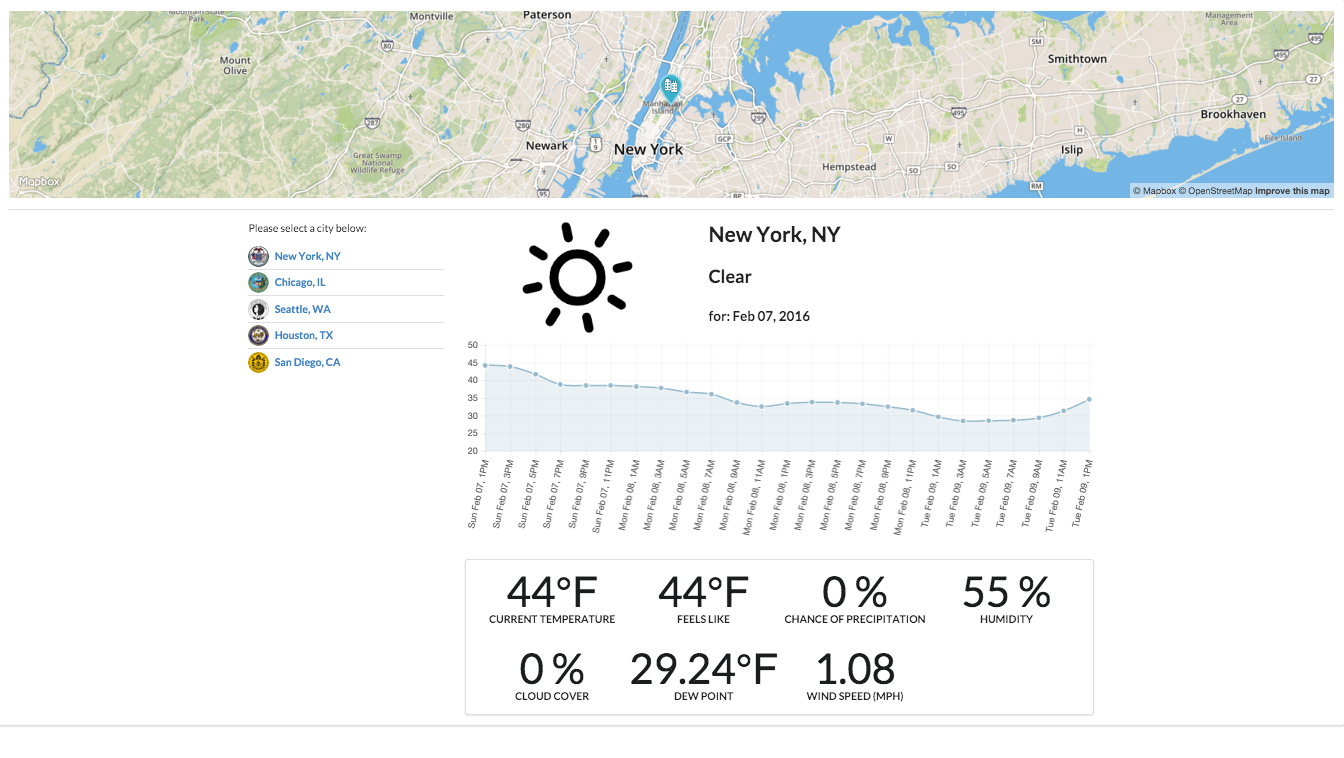
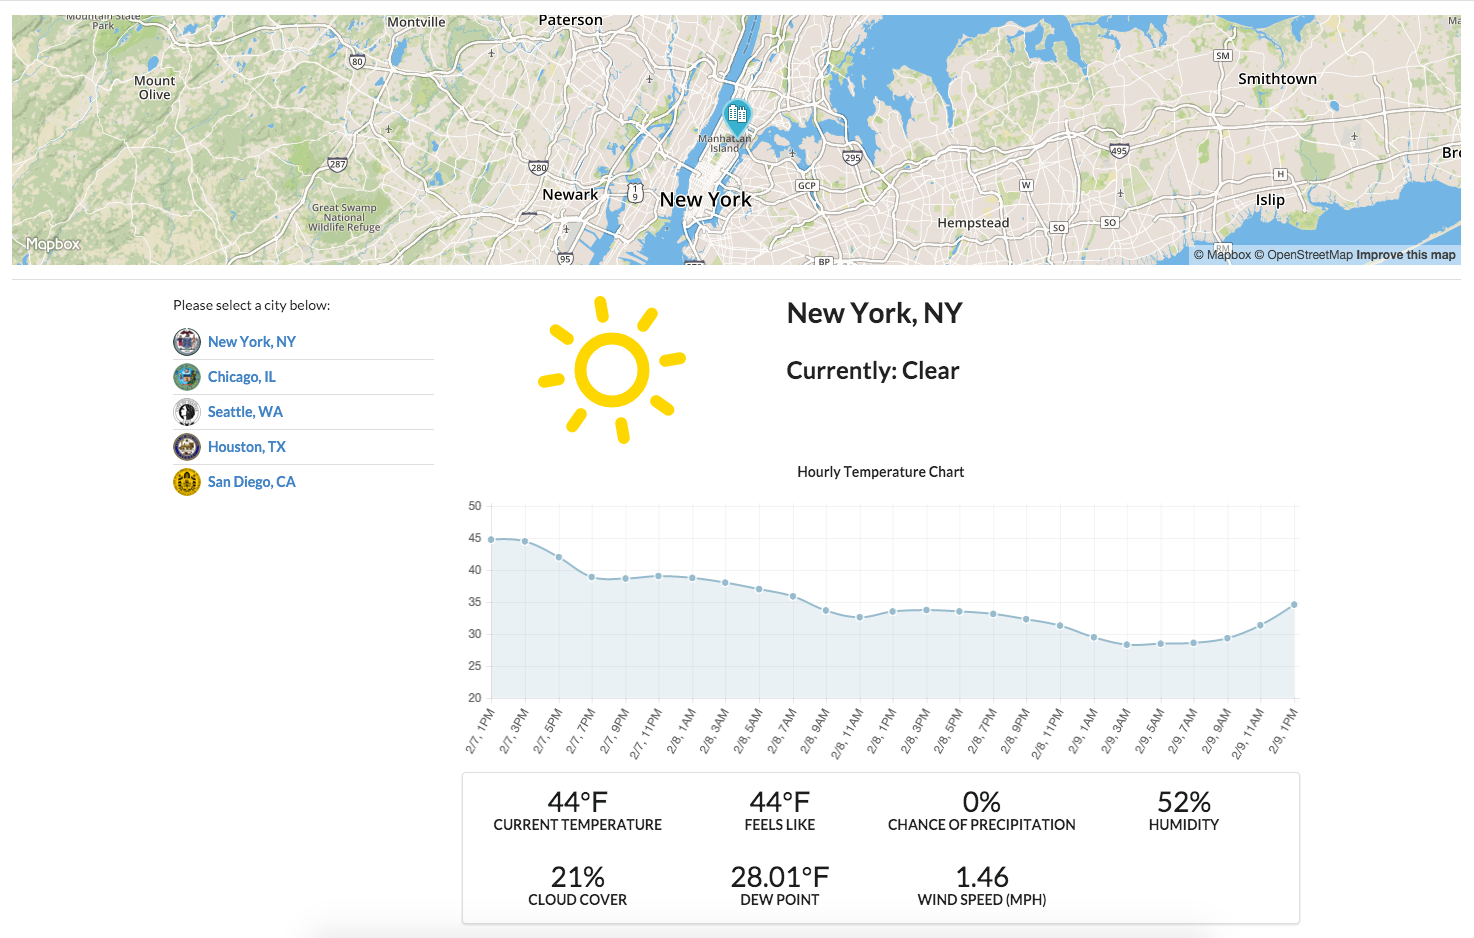
consolidate stats

diff --git a/src/common/components/ForecastSummary.js b/src/common/components/ForecastSummary.js
@@ -59,6 +59,35 @@ export default class ForecastSummary extends React.Component {
     return map[icon] || "black";
   }
 
+  renderStatistics(data) {
+    var stats = [
+      {key: 'current_temp', label: "Current Temperature", value: Math.floor(data.temperature) + String.fromCharCode(8457)},
+      {key: 'feels_like', label: "Feels Like", value: Math.floor(data.apparentTemperature) + String.fromCharCode(8457)},
+      {key: 'chance_precip', label: "Chance of Precipitation", value: Math.floor(data.precipProbability * 100) + '%'},
+      {key: 'humidity', label: "Humidity", value: Math.floor(data.humidity * 100) + '%'},
+      {key: 'cloud_cover', label: "Cloud Cover", value: Math.floor(data.cloudCover * 100) + '%'},
+      {key: 'dew_point', label: "Dew Point", value: data.dewPoint + String.fromCharCode(8457)},
+      {key: 'wind_speed', label: "Wind Speed (mph)", value: data.windSpeed}
+    ]
+
+    return (
+      <div className="ui tiny four statistics">
+        {stats.map(function(stat) {
+          return (
+            <div key={stat.key} className="ui tiny statistic">
+              <div className="value">
+                {stat.value}
+              </div>
+              <div className="label">
+                {stat.label}
+              </div>
+            </div>
+          )
+        })}
+      </div>
+    )
+  }
+
   render() {
     var data = this.props.forecast_data.currently;
 
@@ -79,70 +108,7 @@ export default class ForecastSummary extends React.Component {
           <LineChart data={this.chartData()} options={this.chartOptions()} width="750" height="250"/>
         </div>
         <div className="ui segment">
-          <div className="ui four statistics">
-            <div className="statistic">
-              <div className="value">
-                {Math.floor(data.temperature)}&#8457;
-              </div>
-              <div className="label">
-                Current Temperature
-              </div>
-            </div>
-
-            <div className="statistic">
-              <div className="value">
-                {Math.floor(data.apparentTemperature)}&#8457;
-              </div>
-              <div className="label">
-                Feels Like
-              </div>
-            </div>
-
-            <div className="statistic">
-              <div className="value">
-                {Math.floor(data.precipProbability * 100)} %
-              </div>
-              <div className="label">
-                Chance of Precipitation
-              </div>
-            </div>
-
-            <div className="statistic">
-              <div className="value">
-                {Math.floor(data.humidity * 100)} %
-              </div>
-              <div className="label">
-                Humidity
-              </div>
-            </div>
-
-            <div className="statistic">
-              <div className="value">
-                {Math.floor(data.cloudCover) * 100} %
-              </div>
-              <div className="label">
-                Cloud Cover
-              </div>
-            </div>
-
-            <div className="statistic">
-              <div className="value">
-                {data.dewPoint}&#8457;
-              </div>
-              <div className="label">
-                Dew Point
-              </div>
-            </div>
-
-            <div className="statistic">
-              <div className="value">
-                {data.windSpeed}
-              </div>
-              <div className="label">
-                Wind Speed (mph)
-              </div>
-            </div>
-          </div>
+          {this.renderStatistics(data)}
         </div>
       </div>
     );
